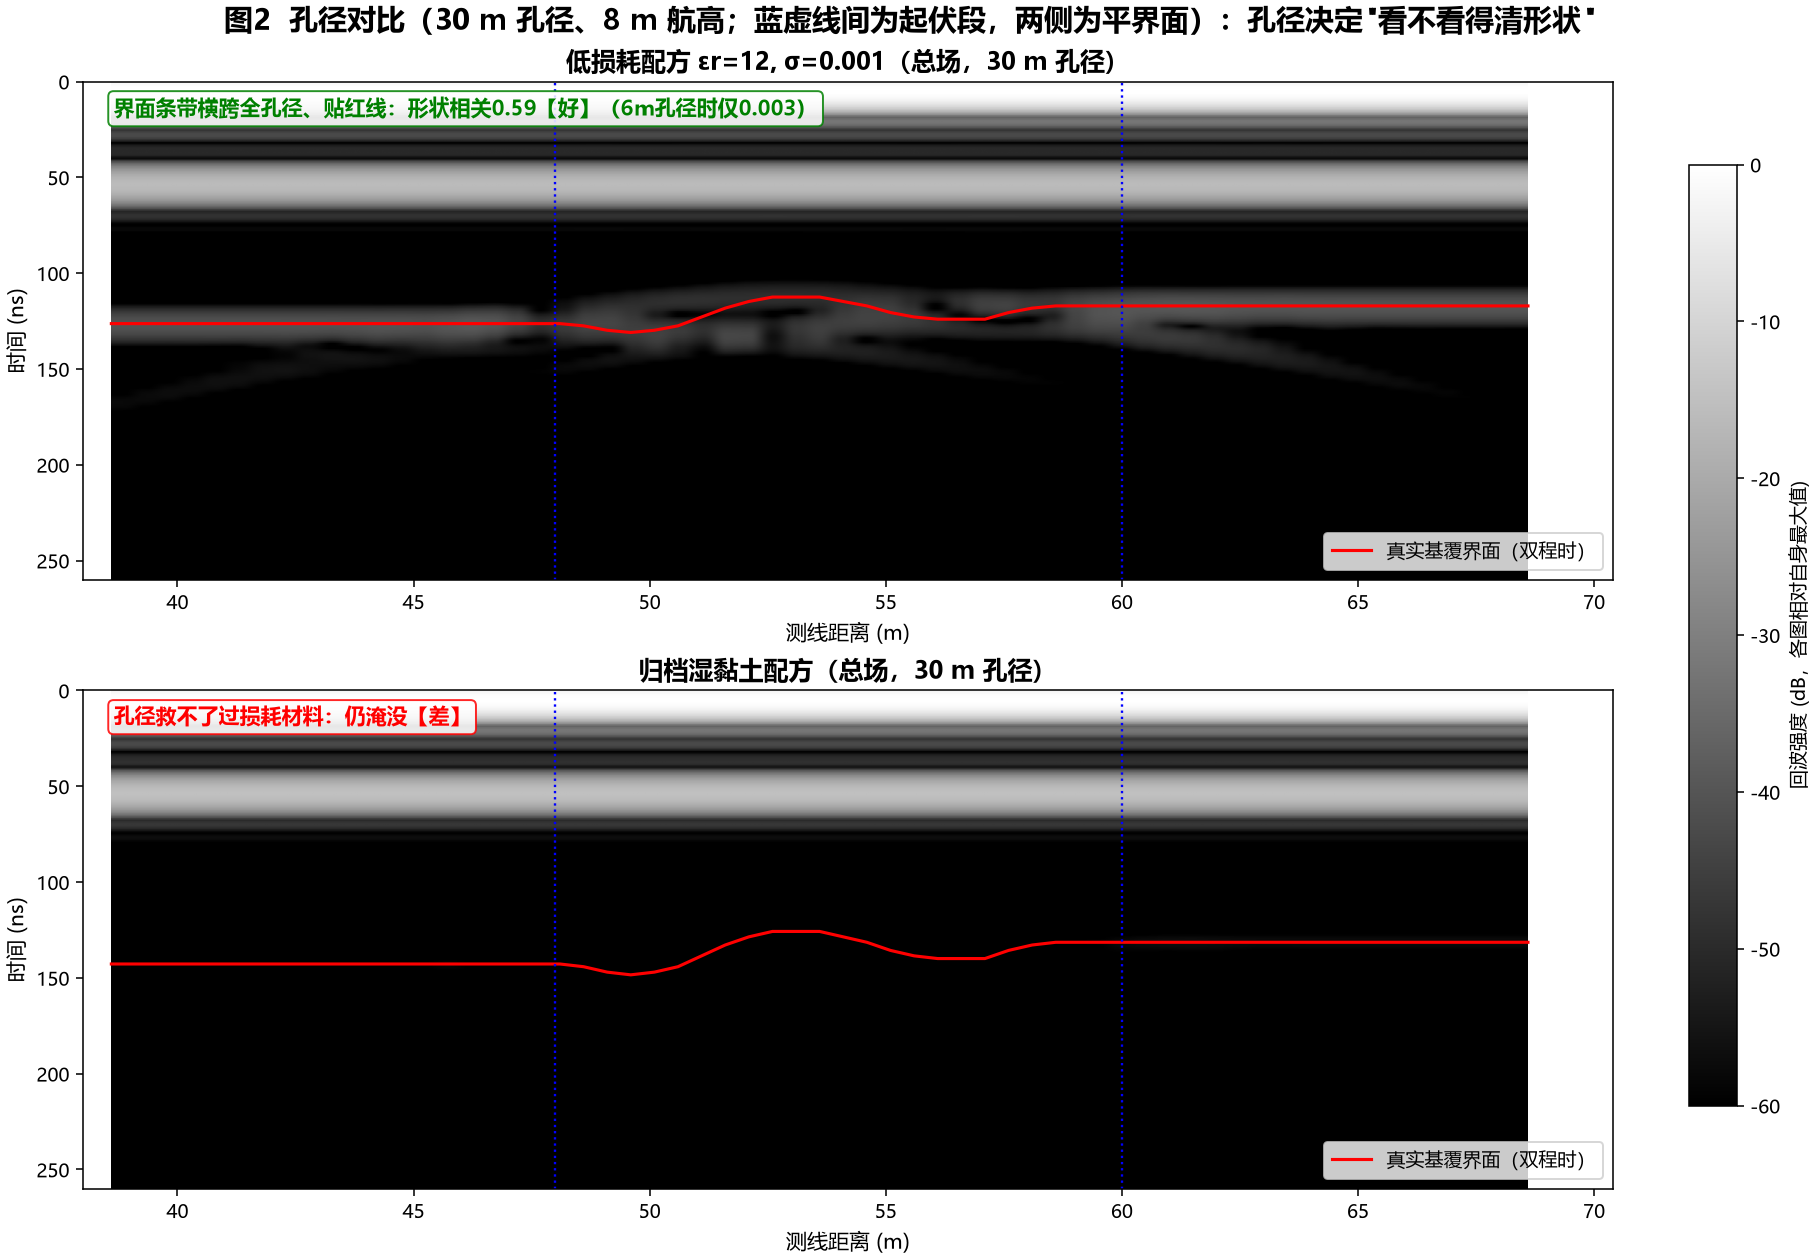
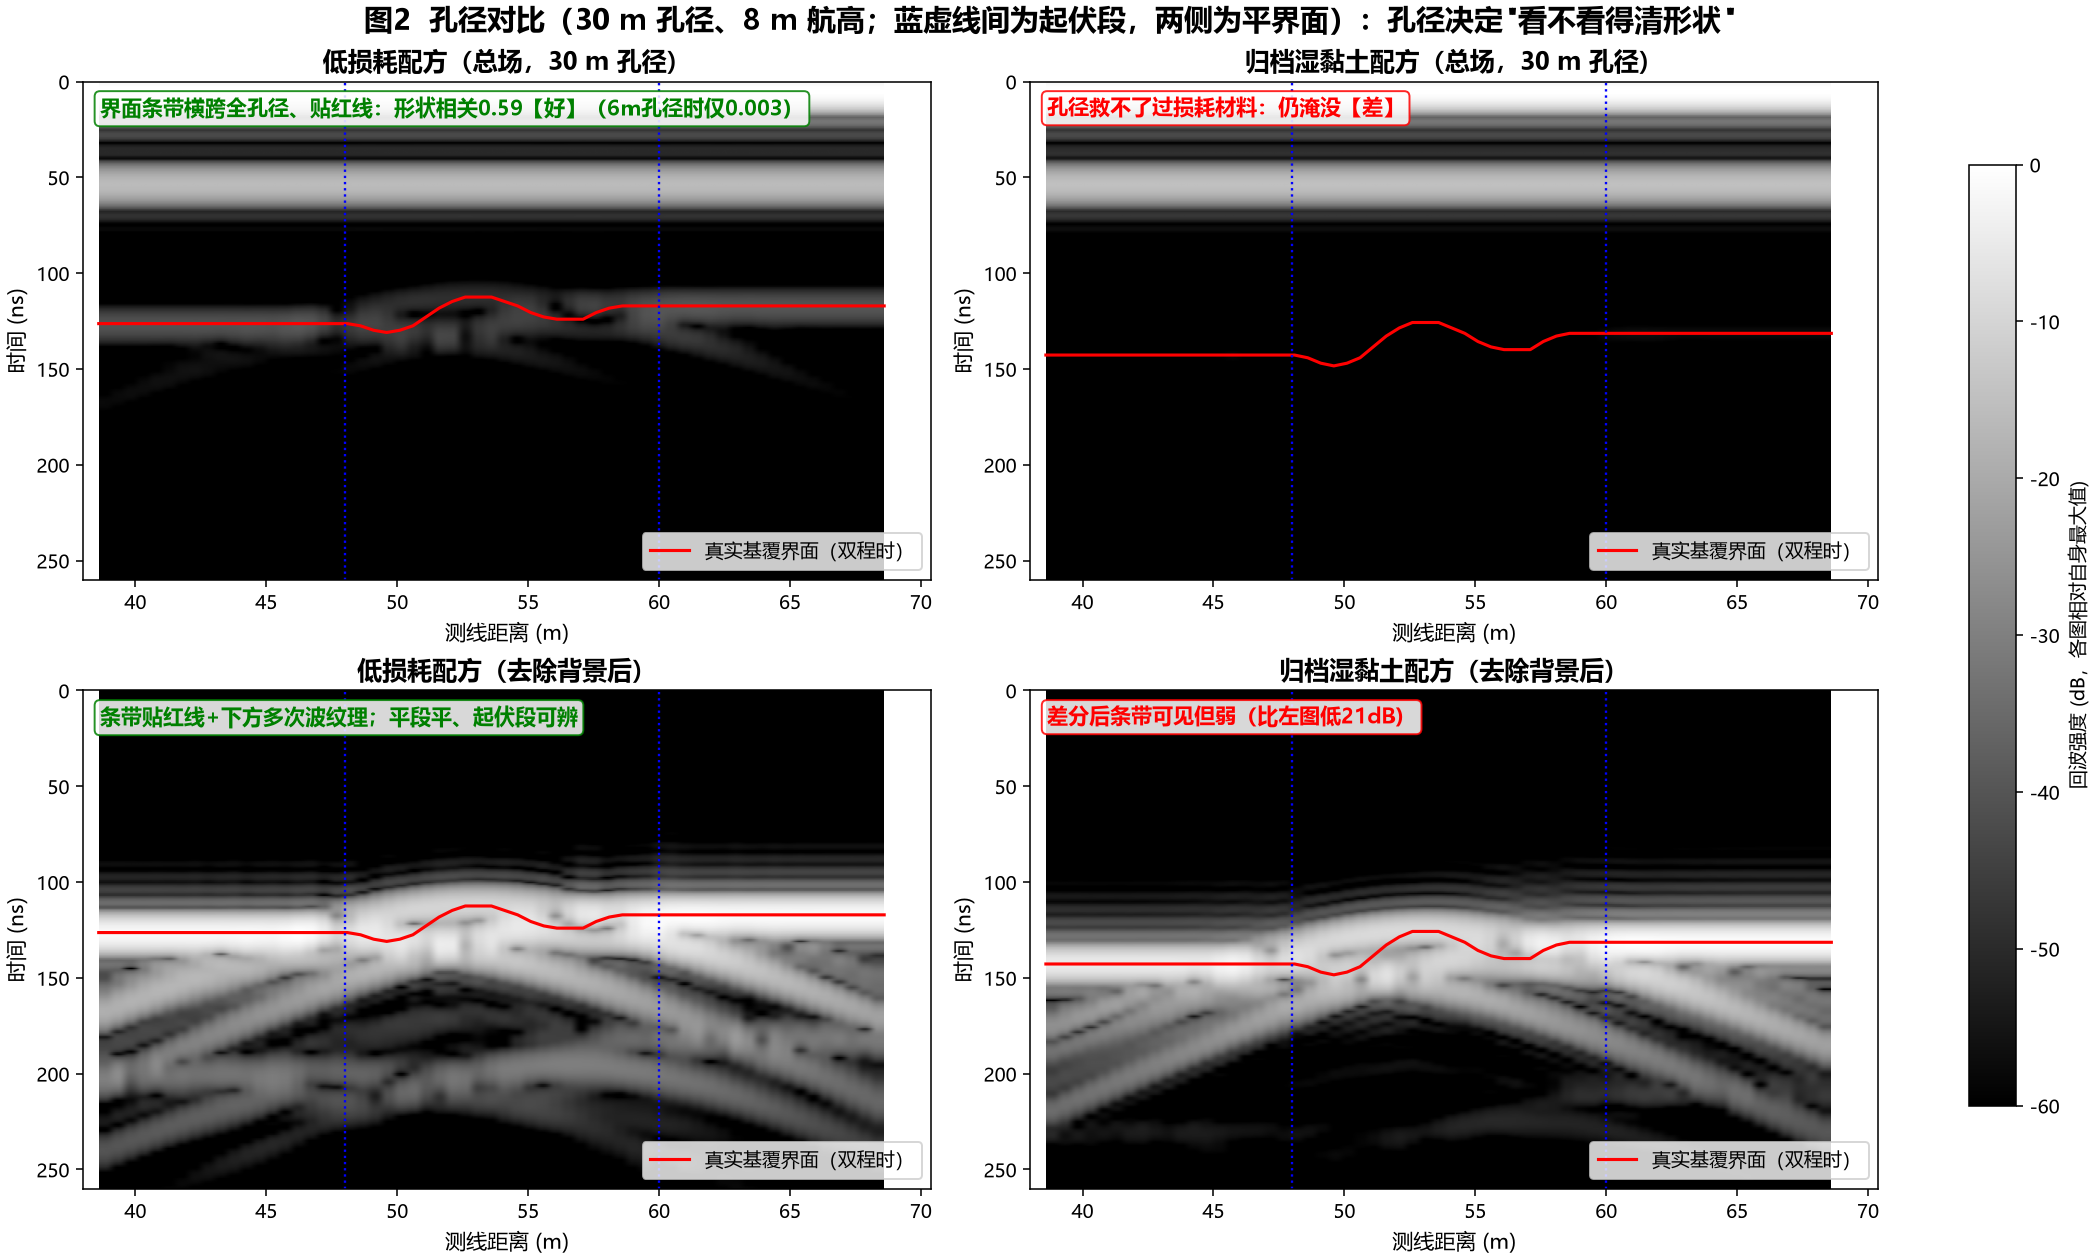
图2孔径对比补去除背景行（2x2：两材料x总场/差分）

diff --git a/scripts/plot_hs4_proof_figures.py b/scripts/plot_hs4_proof_figures.py
@@ -116,22 +116,26 @@ def main():
 
     # ---- fig 2: aperture comparison at 30 m ----
     x30 = 38.6 + 0.5*np.arange(61)
-    t30, tot30_d, _ = load_bscan(APX, 'eps18.017_s0.003_debye', 61)
-    _, tot30_l, _ = load_bscan(APX, 'eps12_s0.001', 61)
+    t30, tot30_d, con30_d = load_bscan(APX, 'eps18.017_s0.003_debye', 61)
+    _, tot30_l, con30_l = load_bscan(APX, 'eps12_s0.001', 61)
     r30_d = relief_tw(x30 + RX_OFFSET/2, 18.017)
     r30_l = relief_tw(x30 + RX_OFFSET/2, 12.0)
-    fig, axes = plt.subplots(2, 1, figsize=(13, 9), layout='constrained')
-    panel(axes[0], tot30_l, t30, x30, r30_l, '低损耗配方 εr=12, σ=0.001（总场，30 m 孔径）',
+    fig, axes = plt.subplots(2, 2, figsize=(15, 9), layout='constrained')
+    panel(axes[0, 0], tot30_l, t30, x30, r30_l, '低损耗配方（总场，30 m 孔径）',
           '界面条带横跨全孔径、贴红线：形状相关0.59【好】（6m孔径时仅0.003）', 'green')
-    panel(axes[1], tot30_d, t30, x30, r30_d, '归档湿黏土配方（总场，30 m 孔径）',
+    panel(axes[0, 1], tot30_d, t30, x30, r30_d, '归档湿黏土配方（总场，30 m 孔径）',
           '孔径救不了过损耗材料：仍淹没【差】', 'red')
-    for ax in axes:
+    panel(axes[1, 0], con30_l, t30, x30, r30_l, '低损耗配方（去除背景后）',
+          '条带贴红线+下方多次波纹理；平段平、起伏段可辨', 'green')
+    panel(axes[1, 1], con30_d, t30, x30, r30_d, '归档湿黏土配方（去除背景后）',
+          '差分后条带可见但弱（比左图低21dB）', 'red')
+    for ax in axes.flat:
         ax.set_xlim(38, 70.4)
-    fig.colorbar(axes[0].images[0], ax=axes, shrink=0.85,
+    fig.colorbar(axes[0, 0].images[0], ax=axes, shrink=0.85,
                  label='回波强度 (dB，各图相对自身最大值)')
     fig.suptitle('图2  孔径对比（30 m 孔径、8 m 航高；蓝虚线间为起伏段，两侧为平界面）：孔径决定"看不看得清形状"',
                  fontsize=15, fontweight='bold')
-    for ax in axes:
+    for ax in axes.flat:
         ax.axvline(48, color='b', ls=':', lw=1.2)
         ax.axvline(60, color='b', ls=':', lw=1.2)
     fig.savefig(a.out/'fig2_aperture_30m.png', dpi=140)
